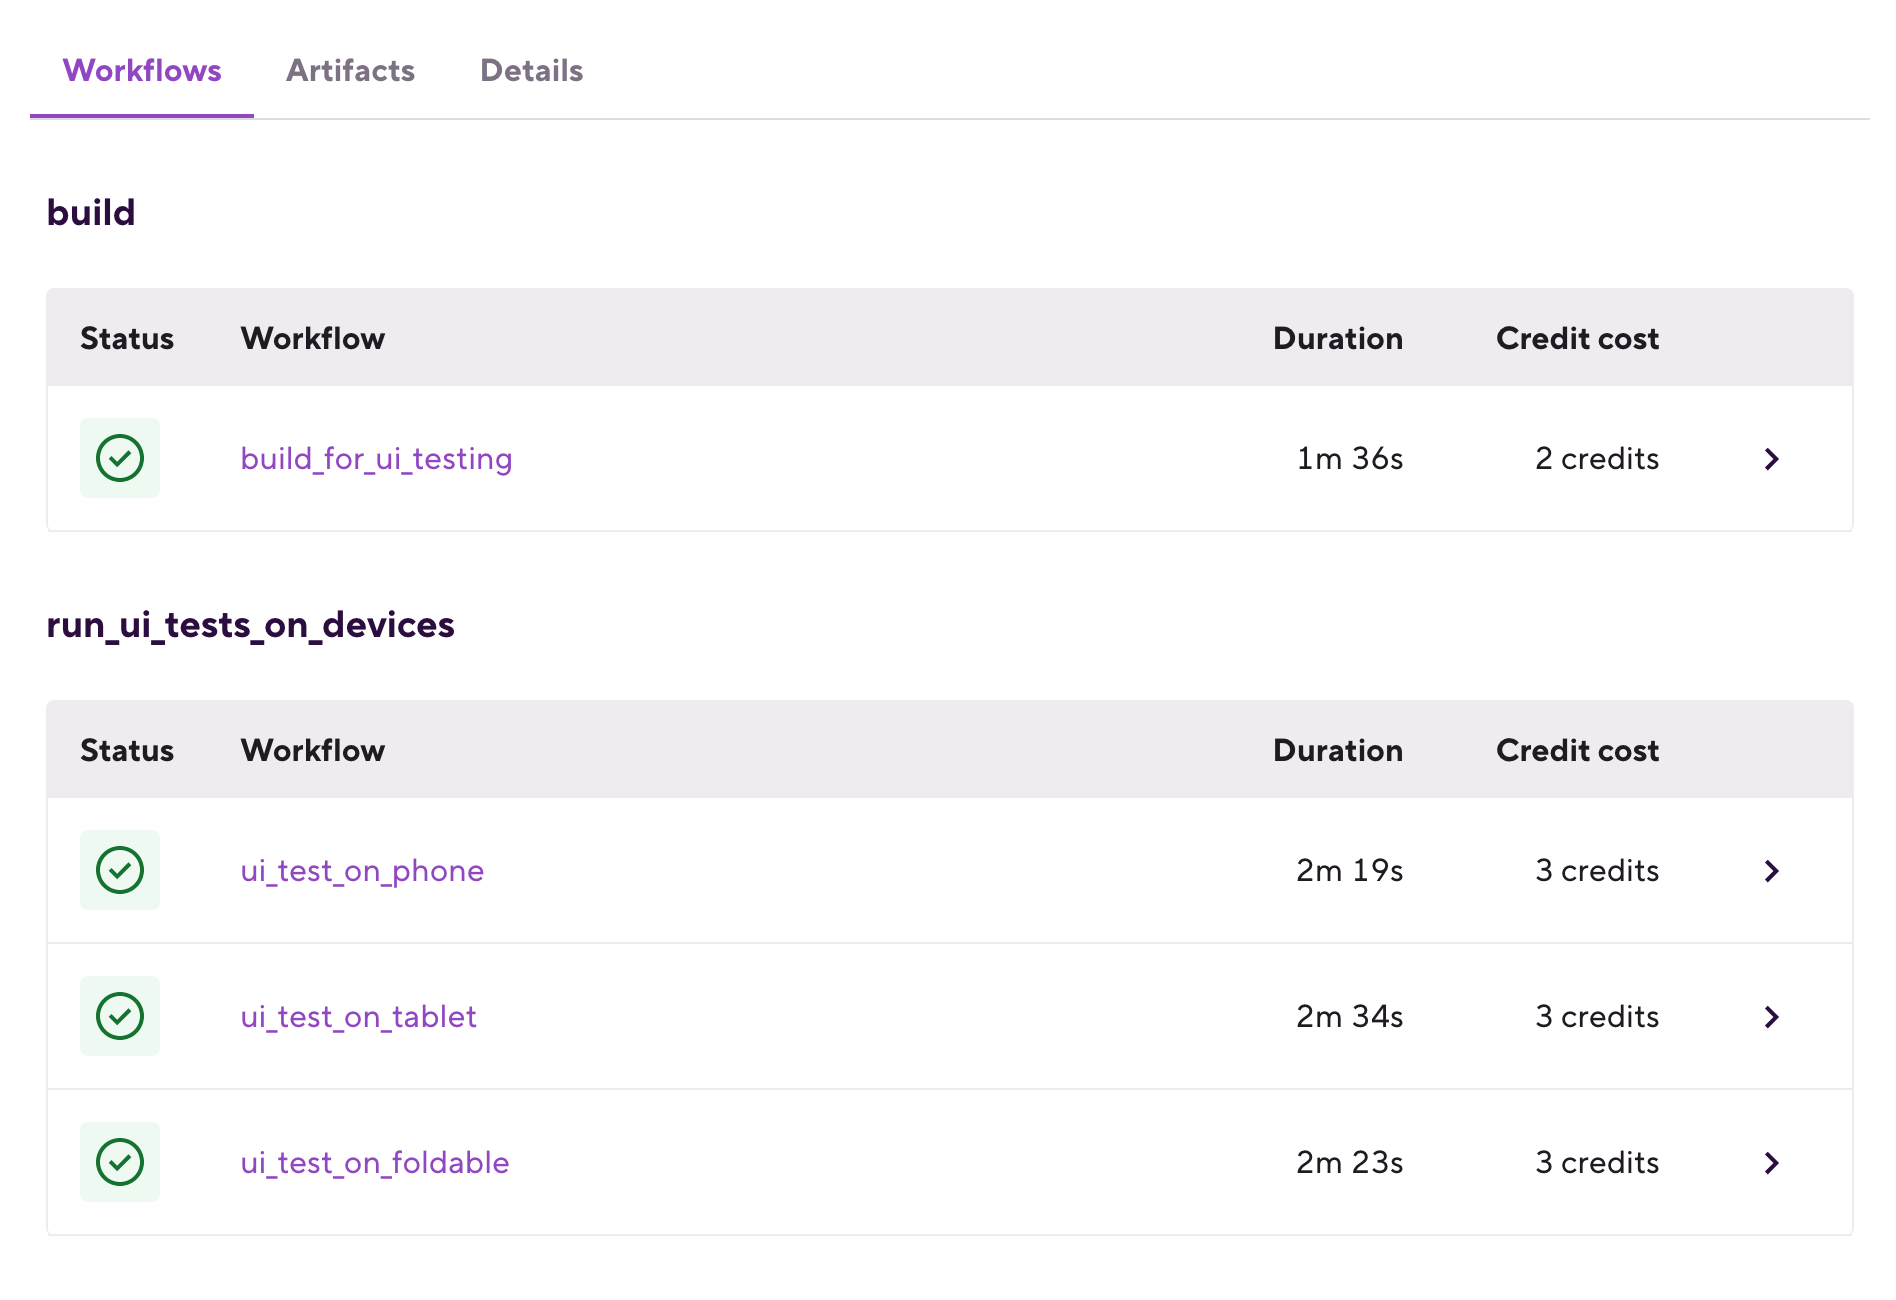
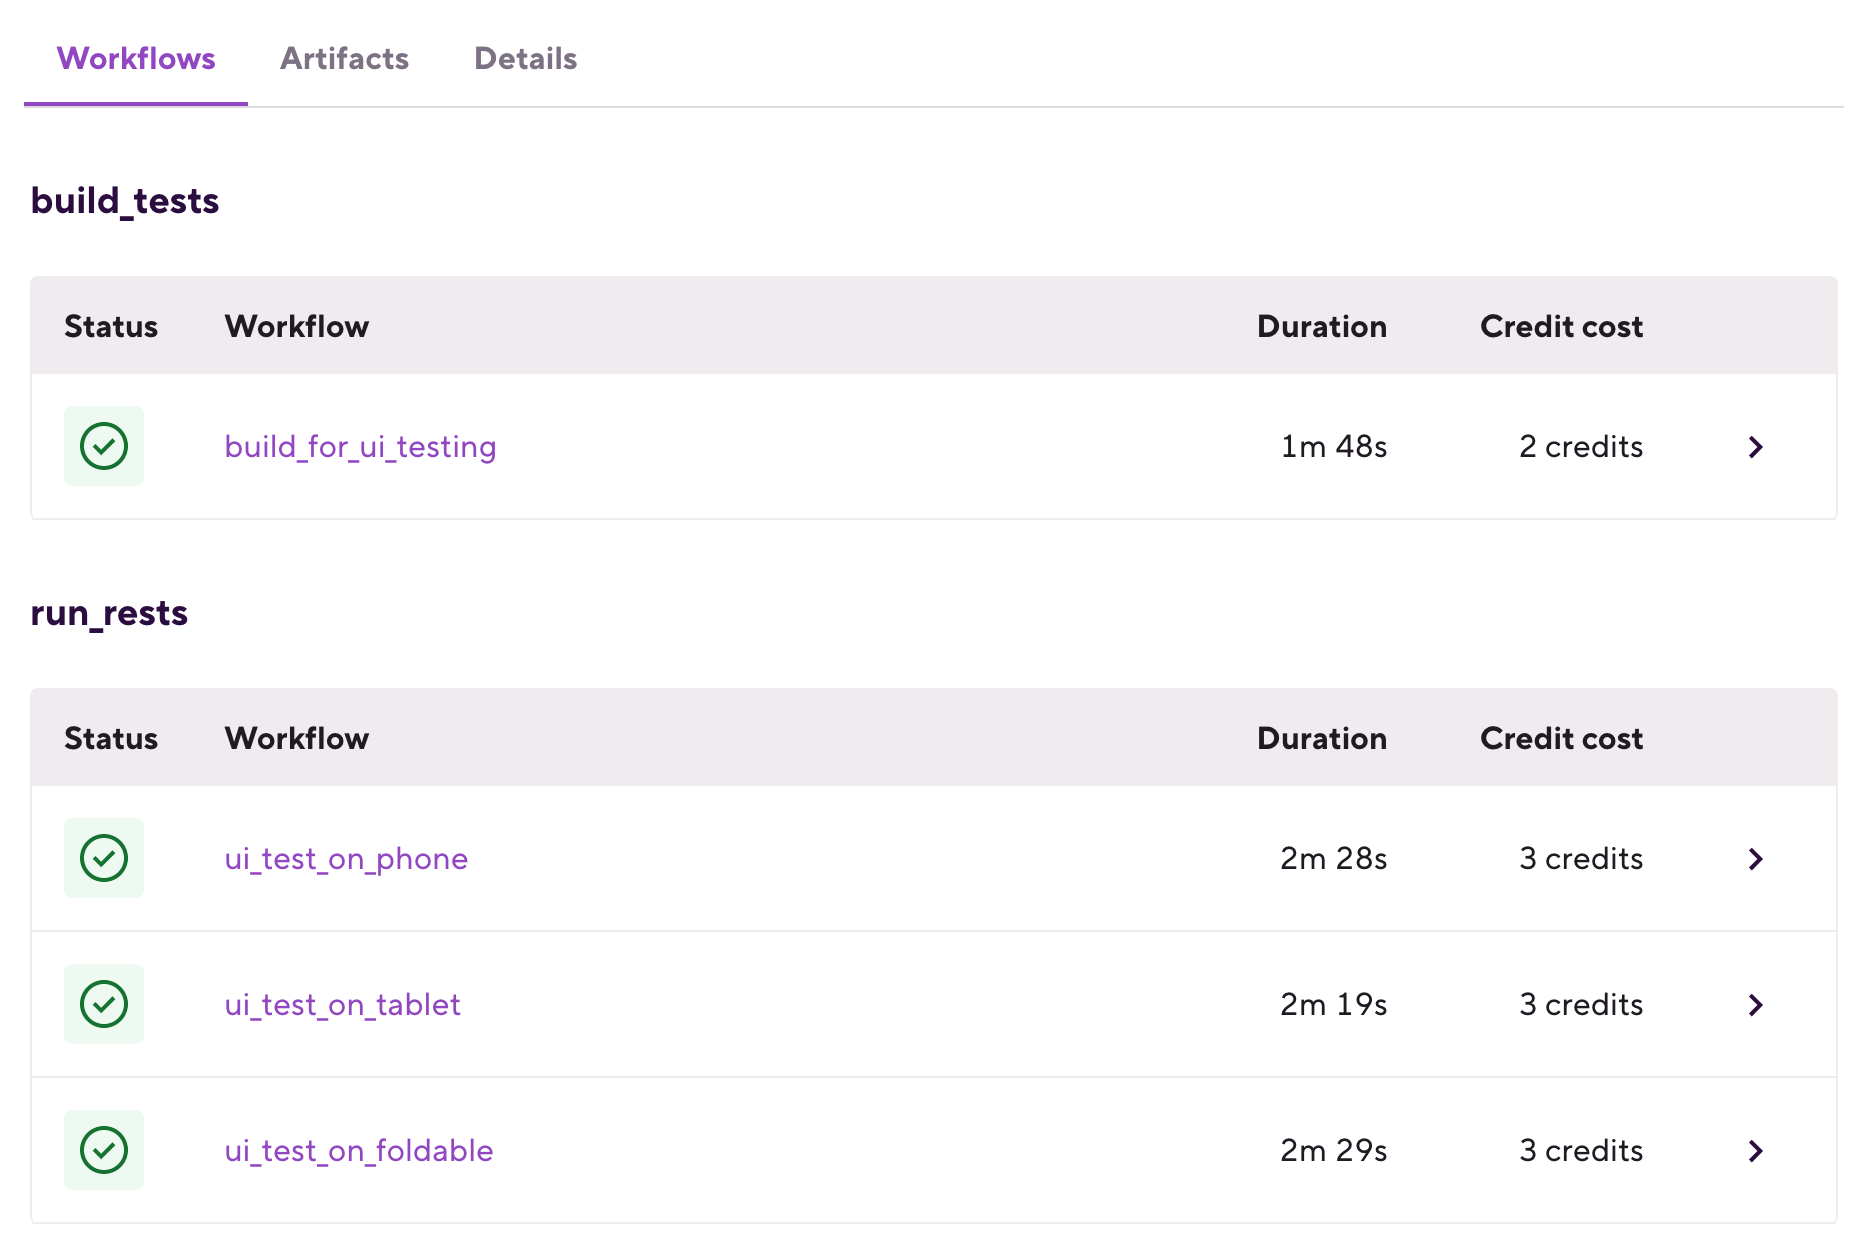
rename stages to conform with guidelines

diff --git a/recipes/android-parallel-ui-tests-on-multiple-devices.md b/recipes/android-parallel-ui-tests-on-multiple-devices.md
@@ -6,8 +6,8 @@ Running the UI or instrumented tests of a single module in parallel Workflows ut
 
 The Pipeline contains two Stages that are run serially:
 
-1. `build`: This Stage executes a Workflow — named `build_for_ui_testing` — that runs the `android-build-for-ui-testing` Step to build APKs for use in testing, and runs the `deploy-to-bitrise-io` Step to save those APKs for use in the later Stages. Performing this Stage separately from the actual testing allows for each test Stage to use these pre-built APKs rather than having to rebuild them for each test Stage.
-1. `run_ui_tests_on_devices`: This Stage executes three UI test Workflows in parallel — `ui_test_on_phone`, `ui_test_on_tablet`, `ui_test_on_foldable` — which use the `android-instrumented-test` Step to run the UI tests on the APKs built in the previous Worflow on each specific device type.
+1. `build_tests`: This Stage executes a Workflow — named `build_for_ui_testing` — that runs the `android-build-for-ui-testing` Step to build APKs for use in testing, and runs the `deploy-to-bitrise-io` Step to save those APKs for use in the later Stages. Performing this Stage separately from the actual testing allows for each test Stage to use these pre-built APKs rather than having to rebuild them for each test Stage.
+1. `run_tests`: This Stage executes three UI test Workflows in parallel — `ui_test_on_phone`, `ui_test_on_tablet`, `ui_test_on_foldable` — which use the `android-instrumented-test` Step to run the UI tests on the APKs built in the previous Worflow on each specific device type.
 
 ![A screenshot of the example Pipeline in Bitrise's web UI](./android-parallel-ui-tests-on-multiple-devices.png)
 
@@ -42,15 +42,15 @@ meta:
 pipelines:
   ui_test_on_multiple_devices:
     stages:
-    - build: { }
-    - run_ui_tests_on_devices: { }
+    - build_tests: { }
+    - run_rests: { }
 
 stages:
-  build:
+  build_tests:
     workflows:
     - build_for_ui_testing: { }
 
-  run_ui_tests_on_devices:
+  run_rests:
     workflows:
     - ui_test_on_phone: { }
     - ui_test_on_tablet: { }
@@ -98,7 +98,7 @@ workflows:
     steps:
     - pull-intermediate-files@1:
         inputs:
-        - artifact_sources: build.build_for_ui_testing
+        - artifact_sources: build_tests.build_for_ui_testing
 
   _run_tests:
     steps:
